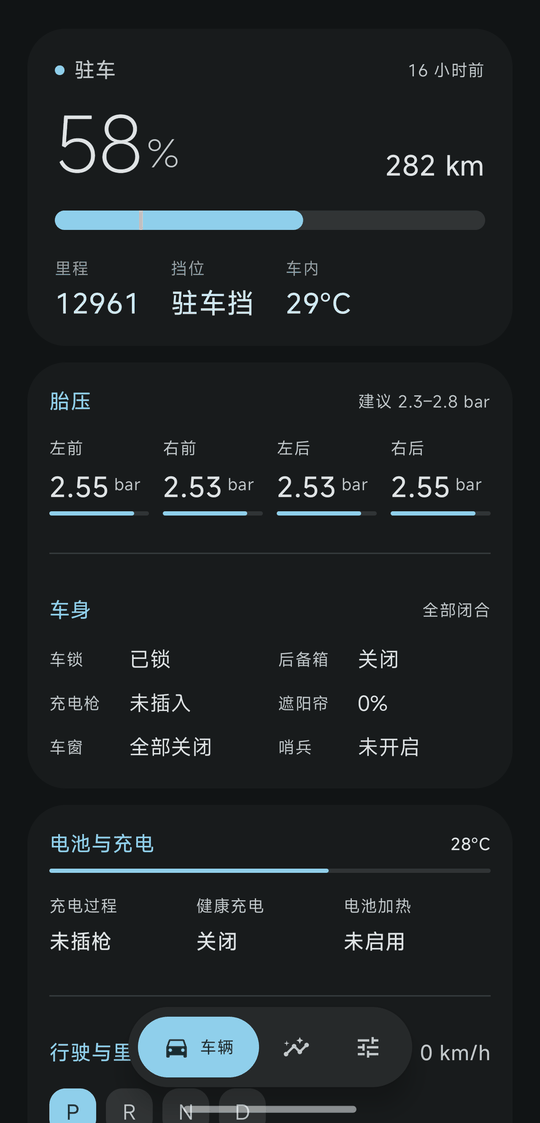
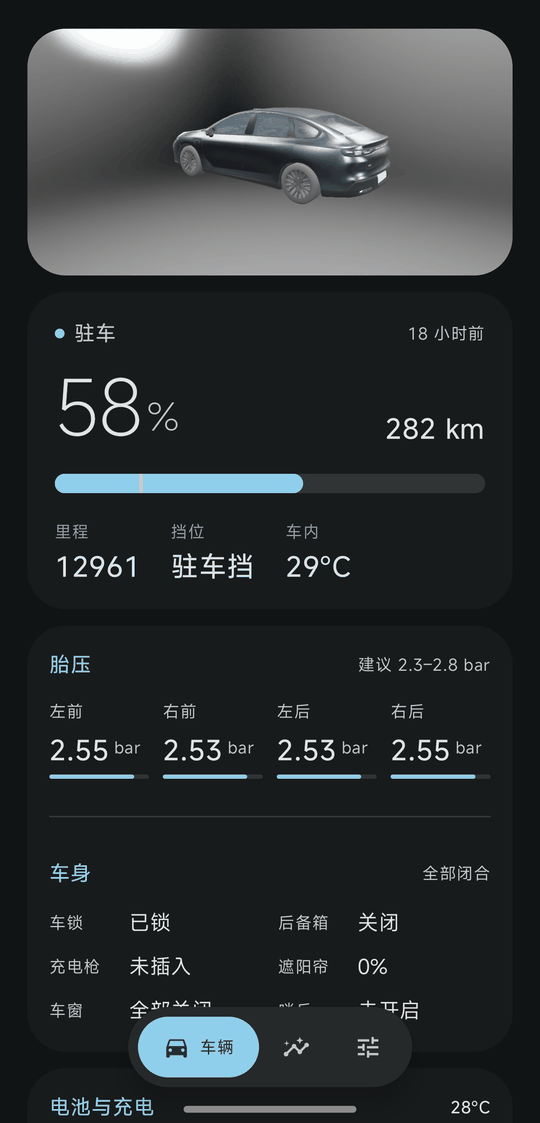
移除 3D 车模：界面、代码、资源与依赖全部删除
两条路都试过，都不划算：

1. 官方 WebGL 查看器：补齐 window.mobile 桥桩、12 个 init 参数、缺失的
   天空盒后，桌面浏览器能出车；但这台机器（HyperOS + Adreno 830 +
   WebView 149）里画布有尺寸、WebGL 正常、资源全 200，就是不出帧，
   加硬件层不合成、不加硬件层进程直接消失。

2. 原生 Filament：FBX2glTF 转 GLB 后确实能渲染，但 SceneView 继承自
   SurfaceView，放进滚动列表会撕裂（在别的卡片上滑动也会坏），只能当
   固定头部；相机控制器一碰就把相机甩进车体，这一版 Compose 封装又没
   暴露关掉的入口；车漆也拿不到官方那套 MatCap 反射。

结论是不值得为它牺牲稳定性。已删除 Car3DView、assets/models、SceneView
依赖，车辆页恢复为单一列表，版本回到 0.9.0。

diff --git a/app/src/main/java/com/haojay/leapmotor/ui/CarScreen.kt b/app/src/main/java/com/haojay/leapmotor/ui/CarScreen.kt
@@ -338,7 +338,7 @@ fun CarScreen(
             }
         }
     }
-}
+    }
 
 @Composable
 private fun MiniStat(label: String, value: String) {

diff --git a/README.md b/README.md
@@ -144,7 +144,7 @@ hkdfKey = b64url(r2) XOR b64url(r3) XOR b64url(JWT 第三段)
 
 - **默认不在后台刷新。** 仅在插枪充电或开启「离车后继续监控」时，前台服务才接管轮询；其余情况下 App 退至后台后停止刷新。`dataSync` 类型的前台服务在 Android 15 及以上存在 6 小时上限，长时间慢充可能被系统终止。
 - **部分信号含义尚待确认。** 本车实测单次上报的 97 个编号中，有 27 项尚无权威语义（20 项为恒为 0 的开关位，4 组为结构相近的成对信号）。出于准确性考虑未作推测性标注——车控界面中错误的字段说明可能导致误判，这些信号在界面中单独折叠，并标注为原始值。
-- **3D 车模暂未实现。** 素材可以下载，但 WebView 中获取不到视口高度，模型实例化后画布未渲染，目前以图形化卡片替代。
+- **不做 3D 车模。** 两条路都试过：官方 WebGL 查看器在这台机器上（HyperOS + Adreno 830 + WebView 149）不出帧；原生 Filament 能渲染，但 SceneView 继承自 SurfaceView，放进滚动列表就撕裂，且车漆拿不到官方那套 MatCap 反射。为它牺牲稳定性不划算，已整体移除。
 - **依赖 `material3:1.5.0-alpha06`。** Expressive 相关 API 在 1.4.0 中仍为 internal，因此使用了 alpha 版本。
 - 目前仅在零跑 B01 2025 款（650 激光雷达版）上完整验证，其他车型的信号编号可能存在差异。
 
